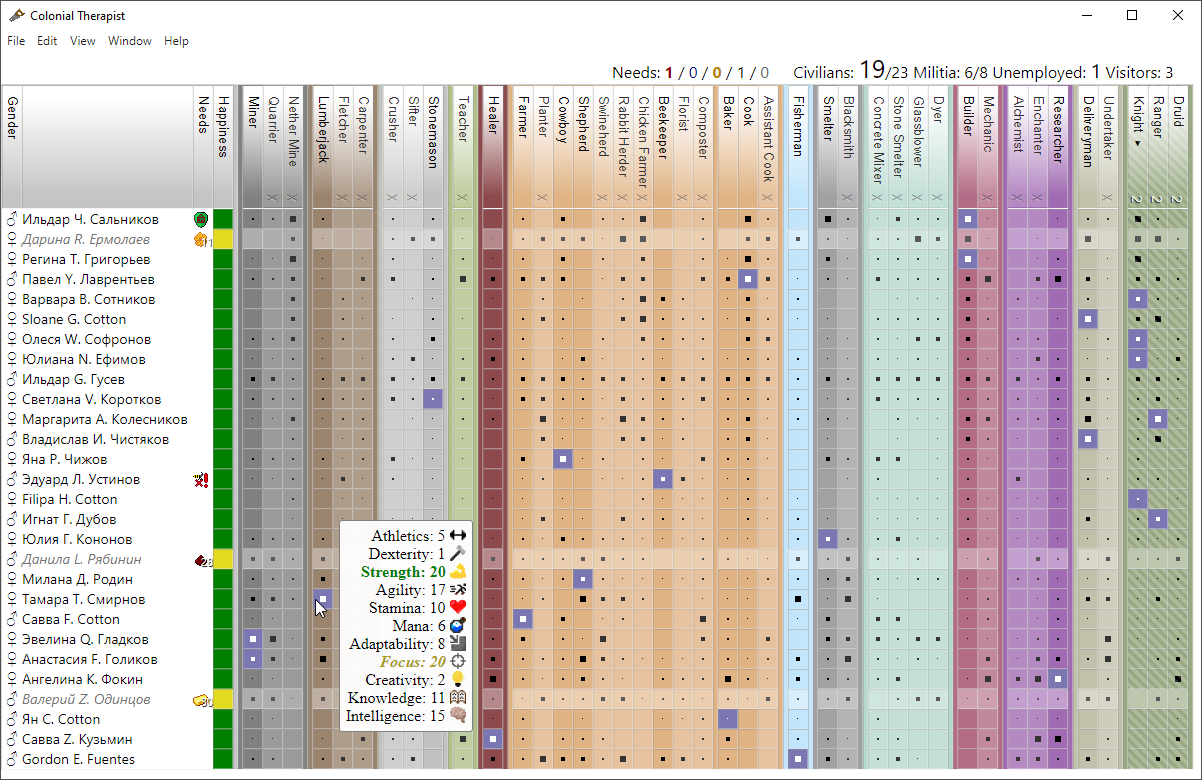
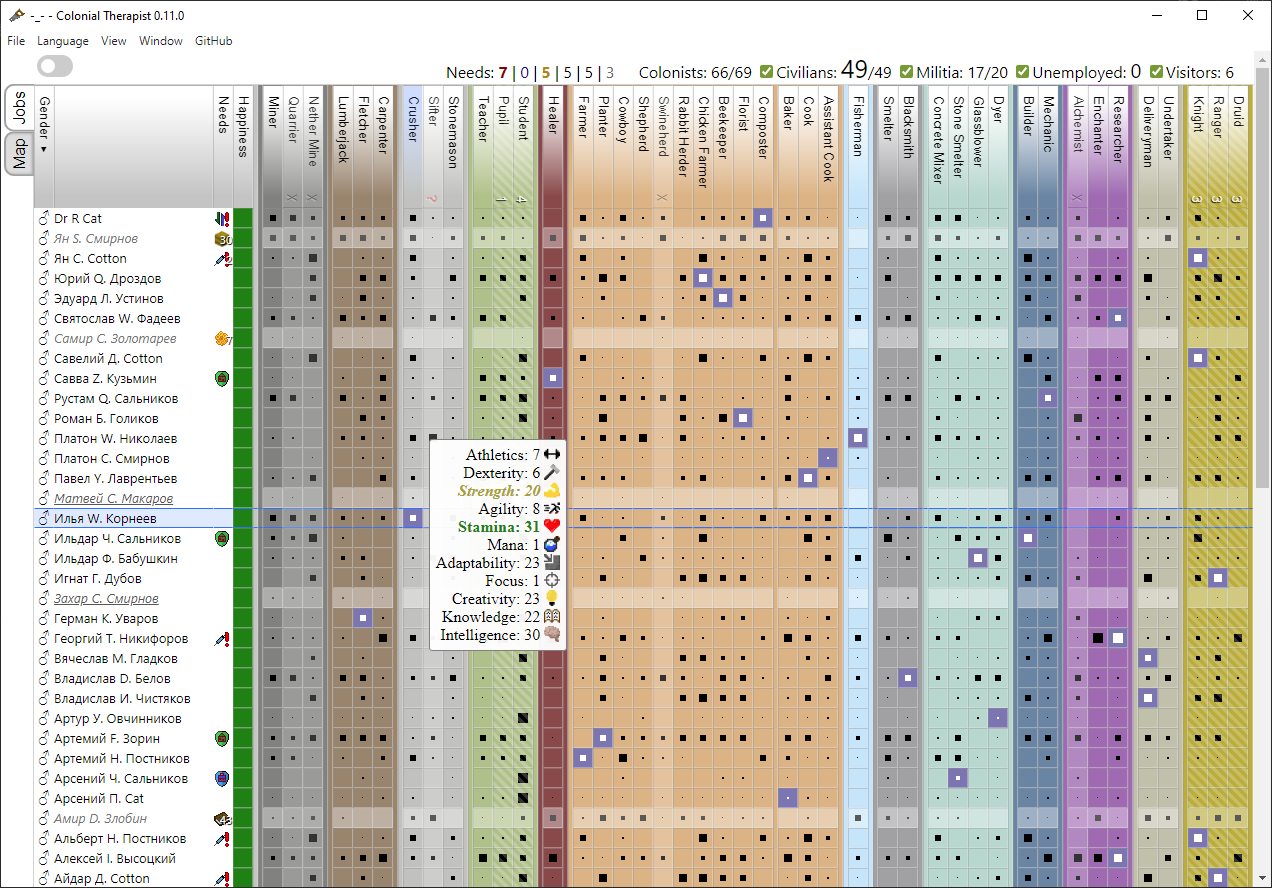
docs: updated screenshots

diff --git a/README.md b/README.md
@@ -7,6 +7,7 @@ This program allows you to analyze the state of your colony. Who works where, th
 The inspiration was the [Dwarf-Therapist](https://github.com/Dwarf-Therapist/Dwarf-Therapist) project for the game [Dwarf Fortress](http://www.bay12games.com/dwarves/) ([steam](https://store.steampowered.com/app/975370/Dwarf_Fortress/)).
 
 ![GUI](GUI.png)
+![GUI_map](GUI_map.png)
 
 ## How to use
 1. Download [Colonial-Therapist](https://github.com/Colonial-Therapist/Colonial-Therapist/releases/latest)
@@ -38,7 +39,7 @@ If something went wrong, try deleting the config.json file.
     - [ ] current task (job)
     - [ ] weapons (military)
     - [x] ~~skills~~
-    - [ ] home
+    - [x] ~~home~~
     - [x] ~~job~~
     - [x] ~~gender~~
   - [x] ~~get skills~~
@@ -62,7 +63,7 @@ If something went wrong, try deleting the config.json file.
   - [x] ~~fill table~~
   - [x] ~~genders~~
   - [ ] specification of needs
-  - [ ] filter by military
+  - [x] ~~filter by military~~
   - [x] ~~work capacity~~ 
   - [x] ~~save sort order before refreshing~~
   - [x] ~~bug: data is not updated the first time~~
